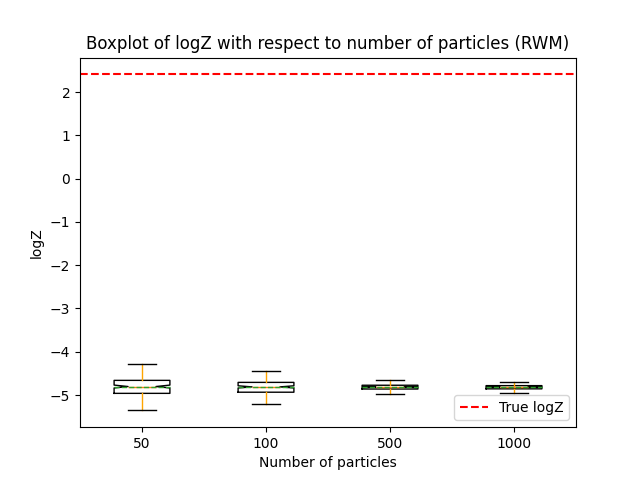
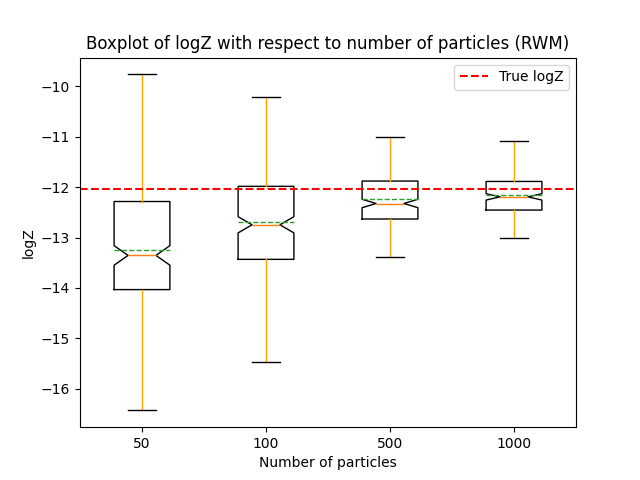
updated logZ calculatin

diff --git a/mcjax/mcmc/mala.py b/mcjax/mcmc/mala.py
@@ -39,11 +39,14 @@ class Mala(MarkovKernel):
     def __init__(self,
                  *,
                  logtarget:LogDensity,
-                 step_size: float
+                 step_size: float,
+                 mass_inv: jnp.ndarray = None
                  ):
         self.logtarget = logtarget
         self._dim = logtarget.dim
         self.step_size = step_size
+        self.mass_inv = mass_inv
+         
         
 
     def init_state(
@@ -70,14 +73,16 @@ class Mala(MarkovKernel):
         # create a proposal
         key, key_ = jr.split(key)
 
-        # empirical variance in each dimension
-        # empirical_var = jnp.var(x, axis=0)       
-        # M_inv = 1 / empirical_var  
+        if self.mass_inv is None:
+            empirical_var = jnp.var(x, axis=0)
+            M_inv = 1.0 / (empirical_var + 1e-8)
+        else:
+            M_inv = self.mass_inv
+        sqrt_M_inv = jnp.sqrt(M_inv)
 
         # \log(f(x)) \propto -V(x) 
-        # x_prop = x + step_size * M_inv * self.logtarget.grad_batch(x) \
-        #  + jr.normal(key_, x.shape) * jnp.sqrt(2 * step_size * M_inv)
-        x_prop = x + step_size * self.logtarget.grad_batch(x) + jr.normal(key_, x.shape) * jnp.sqrt(2 * step_size)
+        x_prop = x + step_size * M_inv * self.logtarget.grad_batch(x) + jr.normal(key_, x.shape) * jnp.sqrt(2 * step_size) * sqrt_M_inv
+        # x_prop = x + step_size * self.logtarget.grad_batch(x) + jr.normal(key_, x.shape) * jnp.sqrt(2 * step_size)
 
         logtarget_proposal = self.logtarget.batch(x_prop)
         

diff --git a/mcjax/smc/geometric_smc.py b/mcjax/smc/geometric_smc.py
@@ -111,7 +111,24 @@ class GeometricSMC():
     def mala_batch(self, t, coefs, particles, key, step_size, if_adjust_step_size):
         logdensity = LogDensityGeneral(logdensity = lambda x: coefs[t] * self.log_gamma_T.logdensity(x) \
             + (1 - coefs[t]) * self.log_gamma_0.logdensity(x), dim=particles.shape[1])
-        mala = Mala(logtarget=logdensity, step_size = step_size)
+        # Pilot RWM chain to estimate per-coordinate variances at π_t
+        pilot_steps = 50
+        rwm = Rwm(logtarget=logdensity, step_size=step_size)
+        state_rwm = RwmState(x=particles, logdensity=logdensity.batch(particles))
+        key_pilot = key
+        for _ in range(pilot_steps):
+            state_rwm, _ = rwm.step((state_rwm, key_pilot, step_size, 0))
+            key_pilot, _ = jr.split(key_pilot)
+        pilot_samples = state_rwm.x
+        var_pilot = jnp.var(pilot_samples, axis=0) + 1e-8
+        mass_inv = 1.0 / var_pilot    
+
+        # Create MALA with that frozen mass matrix
+        mala = Mala(
+            logtarget=logdensity,
+            step_size=step_size,
+            mass_inv=mass_inv
+        )
         state = MalaState(x=particles, logdensity=logdensity.batch(particles))
         max_iter = 5
         args = (state, key, step_size, max_iter)

diff --git a/mcjax/mcmc/rwm.py b/mcjax/mcmc/rwm.py
@@ -88,12 +88,12 @@ class Rwm(MarkovKernel):
         # unpack the state and key
         x = state.x
         logtarget_current = state.logdensity
-        # empirical_var = jnp.var(x, axis=0)    
+        empirical_var = jnp.var(x, axis=0)    
         
         # create a proposal
         key, key_ = jr.split(key)
-        # x_prop = x + jr.normal(key_, (x.shape)) * step_size * jnp.sqrt(empirical_var)
-        x_prop = x + jr.normal(key_, (x.shape)) * step_size
+        x_prop = x + jr.normal(key_, (x.shape)) * step_size * jnp.sqrt(empirical_var)
+        # x_prop = x + jr.normal(key_, (x.shape)) * step_size
         logtarget_proposal = self.logtarget.batch(x_prop)
         
         # accept or reject for a batch of samples
